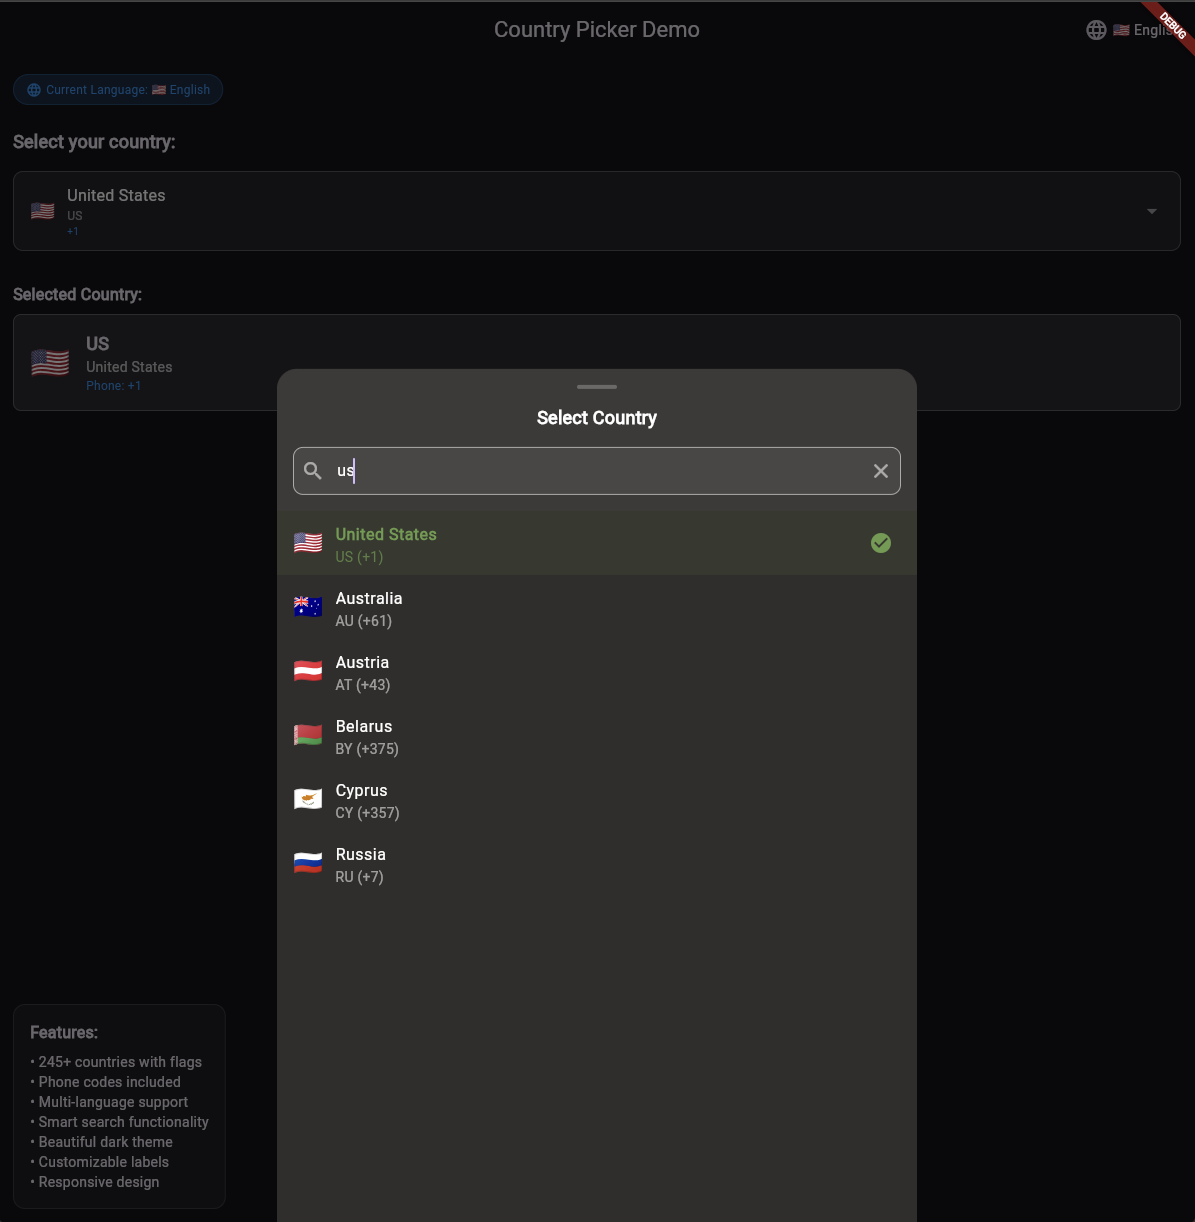
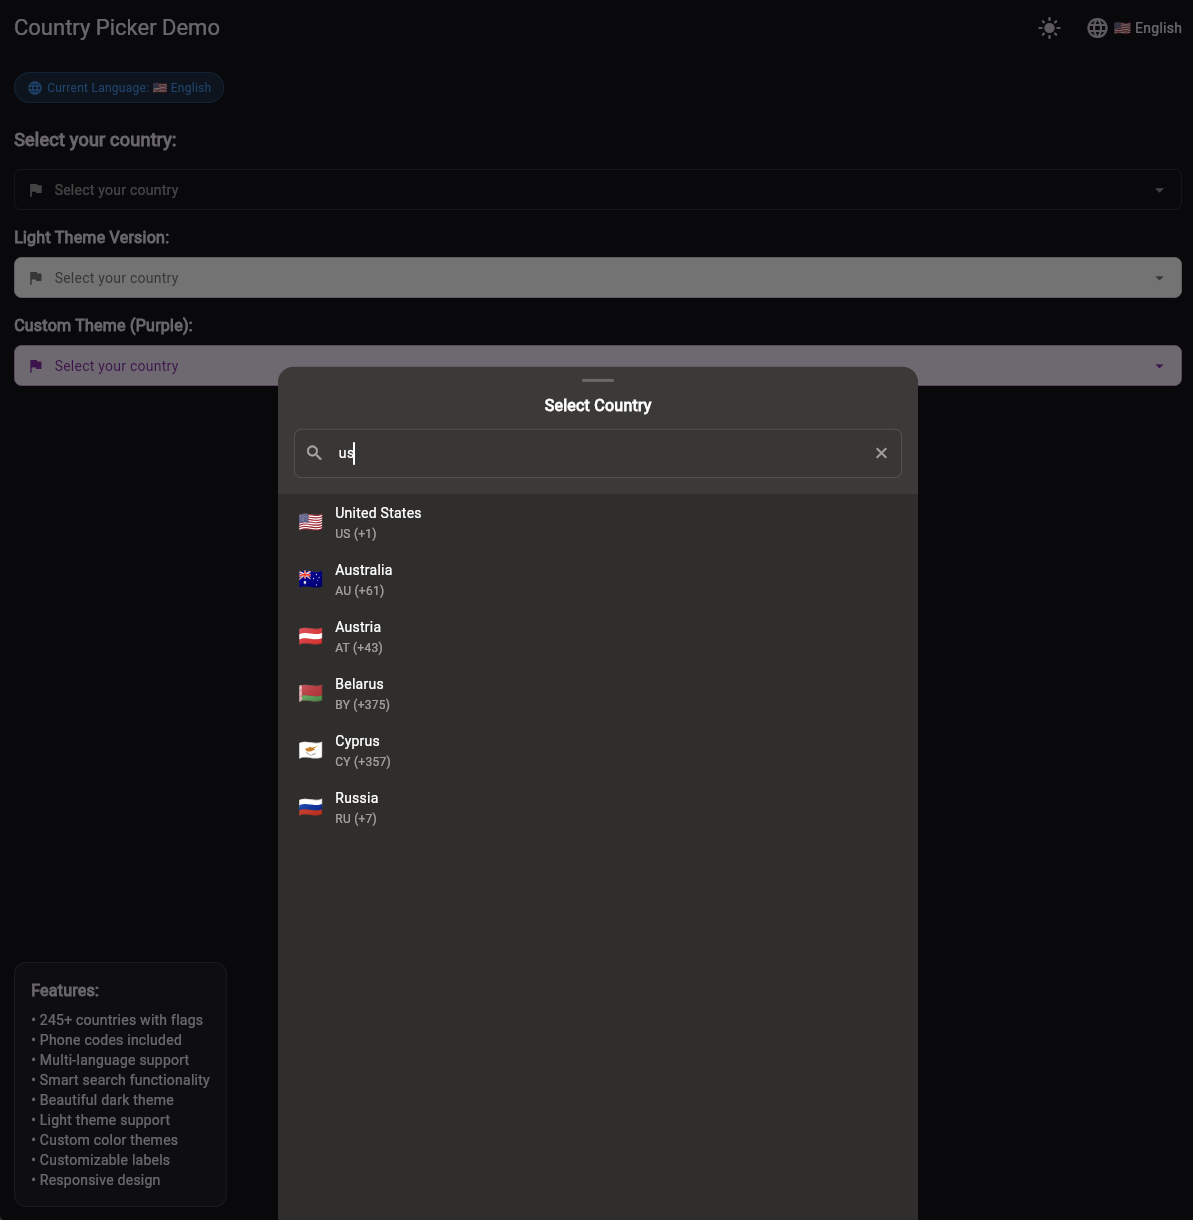
fix: resolve remaining issues and prepare for pub.dev release
- Fix web compatibility issues with standard Flutter colors
- Update example app with theme switching functionality
- Ensure all files are properly committed for clean release

diff --git a/example/lib/main.dart b/example/lib/main.dart
@@ -14,6 +14,7 @@ class MyApp extends StatefulWidget {
 
 class _MyAppState extends State<MyApp> {
   Locale _currentLocale = const Locale('en');
+  bool _isDarkTheme = true;
 
   void _changeLanguage(Locale locale) {
     setState(() {
@@ -22,17 +23,26 @@ class _MyAppState extends State<MyApp> {
     debugPrint('Language changed to: ${locale.languageCode}');
   }
 
+  void _toggleTheme() {
+    setState(() {
+      _isDarkTheme = !_isDarkTheme;
+    });
+    debugPrint('Theme changed to: ${_isDarkTheme ? 'dark' : 'light'}');
+  }
+
   @override
   Widget build(BuildContext context) {
     return MaterialApp(
       title: 'Country Picker Demo',
-      theme: ThemeData.dark(),
+      theme: _isDarkTheme ? ThemeData.dark() : ThemeData.light(),
       locale: _currentLocale,
       localizationsDelegates: CountrySearchDelegates.allDelegates,
       supportedLocales: CountrySearchDelegates.supportedLocales,
       home: MyHomePage(
         onLanguageChanged: _changeLanguage,
+        onThemeChanged: _toggleTheme,
         currentLocale: _currentLocale,
+        isDarkTheme: _isDarkTheme,
       ),
     );
   }
@@ -40,12 +50,16 @@ class _MyAppState extends State<MyApp> {
 
 class MyHomePage extends StatefulWidget {
   final Function(Locale) onLanguageChanged;
+  final VoidCallback onThemeChanged;
   final Locale currentLocale;
+  final bool isDarkTheme;
 
   const MyHomePage({
     super.key,
     required this.onLanguageChanged,
+    required this.onThemeChanged,
     required this.currentLocale,
+    required this.isDarkTheme,
   });
 
   @override
@@ -54,7 +68,6 @@ class MyHomePage extends StatefulWidget {
 
 class _MyHomePageState extends State<MyHomePage> {
   Country? selectedCountry;
-  bool _isDarkTheme = true;
 
   String _getLanguageName(String code) {
     switch (code) {
@@ -91,12 +104,8 @@ class _MyHomePageState extends State<MyHomePage> {
         actions: [
           // Theme toggle button
           IconButton(
-            icon: Icon(_isDarkTheme ? Icons.light_mode : Icons.dark_mode),
-            onPressed: () {
-              setState(() {
-                _isDarkTheme = !_isDarkTheme;
-              });
-            },
+            icon: Icon(widget.isDarkTheme ? Icons.light_mode : Icons.dark_mode),
+            onPressed: widget.onThemeChanged,
           ),
           PopupMenuButton<Locale>(
             onSelected: widget.onLanguageChanged,
@@ -237,13 +246,13 @@ class _MyHomePageState extends State<MyHomePage> {
                 );
               },
               backgroundColor: Colors.white,
-              headerColor: Colors.grey[100]!,
+              headerColor: Colors.grey.shade100,
               textColor: Colors.black87,
               accentColor: Colors.blue,
-              searchFieldColor: Colors.grey[50]!,
-              searchFieldBorderColor: Colors.grey[300]!,
+              searchFieldColor: Colors.grey.shade50,
+              searchFieldBorderColor: Colors.grey.shade300,
               cursorColor: Colors.blue,
-              hintTextColor: Colors.grey[600]!,
+              hintTextColor: Colors.grey.shade600,
             ),
             const SizedBox(height: 16),
 
@@ -270,14 +279,14 @@ class _MyHomePageState extends State<MyHomePage> {
                   ),
                 );
               },
-              backgroundColor: Colors.purple[50]!,
-              headerColor: Colors.purple[100]!,
-              textColor: Colors.purple[900]!,
+              backgroundColor: Colors.purple.shade50,
+              headerColor: Colors.purple.shade100,
+              textColor: Colors.purple.shade900,
               accentColor: Colors.purple,
-              searchFieldColor: Colors.purple[25]!,
-              searchFieldBorderColor: Colors.purple[200]!,
+              searchFieldColor: Colors.purple.shade50,
+              searchFieldBorderColor: Colors.purple.shade200,
               cursorColor: Colors.purple,
-              hintTextColor: Colors.purple[600]!,
+              hintTextColor: Colors.purple.shade600,
             ),
             const SizedBox(height: 32),
 

diff --git a/lib/src/flutter_country_picker/country_picker.dart b/lib/src/flutter_country_picker/country_picker.dart
@@ -49,11 +49,11 @@ class _CountryPickerState extends State<CountryPicker> {
   int _updateCounter = 0;
 
   // Default colors for dark theme
-  static const Color _defaultBackgroundColor = Color(0xFF302E2C);
-  static const Color _defaultHeaderColor = Color(0xFF3C3A38);
+  static const Color _defaultBackgroundColor = Color(0xFF302E2C); // Original dark theme
+  static const Color _defaultHeaderColor = Color(0xFF3C3A38); // Original dark theme
   static const Color _defaultTextColor = Colors.white;
-  static const Color _defaultAccentColor = Color(0xFF699B4B);
-  static const Color _defaultSearchFieldColor = Color(0x0D000000); // 5% white
+  static const Color _defaultAccentColor = Color(0xFF699B4B); // Original green accent
+  static const Color _defaultSearchFieldColor = Color(0x0D000000); // Original 5% white
   static const Color _defaultSearchFieldBorderColor = Colors.white24;
   static const Color _defaultCursorColor = Colors.white;
   static const Color _defaultHintTextColor = Colors.white54;
